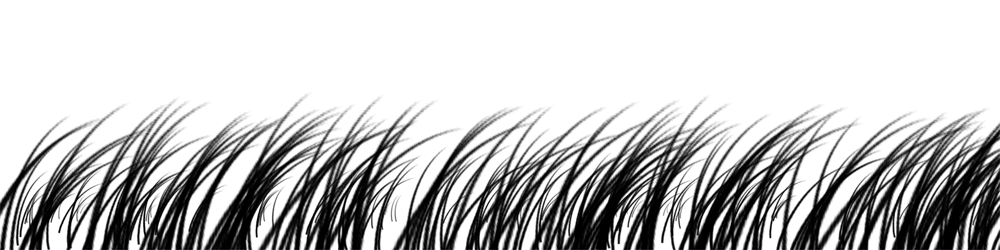
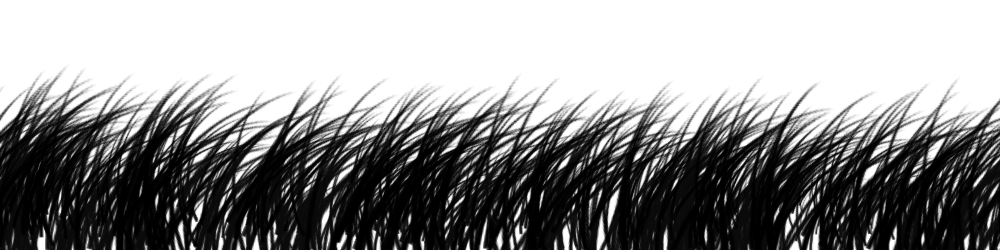
Optimized ETE.cs speed

diff --git a/DisplayedObject/Fonds/Ete/Ete.cs b/DisplayedObject/Fonds/Ete/Ete.cs
@@ -1,6 +1,8 @@
 using System;
 using System.Collections.Generic;
 using System.Drawing;
+using System.Drawing.Drawing2D;
+using System.Text;
 using System.Windows.Forms;
 namespace ClockScreenSaverGL.Fonds.Ete
 {
@@ -8,15 +10,16 @@ namespace ClockScreenSaverGL.Fonds.Ete
     {
         #region PARAMETRES
         const string CAT = "Ete";
-        static private readonly int NB_HERBES = conf.getParametre(CAT, "Nb Herbes", 80 );
-        private readonly int NB_FLARES = conf.getParametre(CAT, "Nb Flares", 6 ) ;
-        private readonly float VX_SOLEIL = conf.getParametre(CAT, "VX Soleil", 5f) ;
-        private readonly float VY_SOLEIL = -conf.getParametre(CAT, "VY Soleil", 5f) ;
-        
-        private readonly int TAILLE_SOLEIL = conf.getParametre(CAT, "Taille Soleil", 300 );
-        private readonly float RATIO_FLARE_MIN = conf.getParametre(CAT, "Ratio Flare Min", 0.5f );
+        static private readonly int NB_HERBES = conf.getParametre(CAT, "Nb Herbes", 80);
+        private readonly int NB_FLARES = conf.getParametre(CAT, "Nb Flares", 6);
+        private readonly float VX_SOLEIL = conf.getParametre(CAT, "VX Soleil", 5f);
+        private readonly float VY_SOLEIL = conf.getParametre(CAT, "VY Soleil", 5f);
+
+        private readonly int TAILLE_SOLEIL = conf.getParametre(CAT, "Taille Soleil", 300);
+        private readonly float RATIO_FLARE_MIN = conf.getParametre(CAT, "Ratio Flare Min", 0.5f);
         private readonly float RATIO_FLARE_MAX = conf.getParametre(CAT, "Ratio Flare Max", 0.9f);
-        private readonly byte ALPHA_FLARE_MIN = (byte) conf.getParametre(CAT, "Alpha Flare Min", 3);
+        private readonly byte ALPHA = (byte)conf.getParametre(CAT, "Alpha", 64);
+        private readonly byte ALPHA_FLARE_MIN = (byte)conf.getParametre(CAT, "Alpha Flare Min", 3);
         private readonly byte ALPHA_FLARE_MAX = (byte)conf.getParametre(CAT, "Alpha Flare Max", 16);
         private readonly int HAUTEUR_TOUFFE = conf.getParametre(CAT, "Hauteur touffe", 200);
         private bool AFFICHE_FOND = conf.getParametre(CAT, "Affiche Fond", true);
@@ -28,16 +31,18 @@ namespace ClockScreenSaverGL.Fonds.Ete
         private readonly int HAUTEUR;
         private readonly int CENTREX;
         private readonly int CENTREY;
-        private float _vent = 0;
-        //private Bitmap _fond = Resources.ete;
-
-        private Bitmap _soleil = Resources.soleil;
-        List<Herbe> _herbes;
         static DateTime debut = DateTime.Now;
 
+        // Soleil
+        private Bitmap _soleil = Resources.soleil;
         private float _xSoleil, _ySoleil;
+        
+        // Herbes
+        private float _vent = 0;
         private Bitmap _fond = Resources.fondEte;
-
+        private List<Herbe> _herbes;
+                
+        // Lens Flares (reflets du soleil sur l'objectif
         private class Flare
         {
             public float _distance;
@@ -55,19 +60,21 @@ namespace ClockScreenSaverGL.Fonds.Ete
         {
             LARGEUR = LargeurEcran;
             HAUTEUR = HauteurEcran;
-            LARGEUR_TOUFFE = LARGEUR ;
+            LARGEUR_TOUFFE = LARGEUR /2 ;
             CENTREX = LARGEUR / 2;
             CENTREY = HAUTEUR / 2;
             NB_FLARES = r.Next(NB_FLARES - 2, NB_FLARES + 2);
             Init();
         }
 
-
+        /**
+         * Initialisation du soleil, des lens flares et de l'herbe
+         * */
         void Init()
-        {          
+        {
             _xSoleil = 0;
-            _ySoleil = CENTREY;
-           
+            _ySoleil = CENTREY/2;
+
             _flares = new Flare[NB_FLARES];
 
             for (int i = 0; i < NB_FLARES; i++)
@@ -84,6 +91,10 @@ namespace ClockScreenSaverGL.Fonds.Ete
 
             GenereBrinsHerbe();
         }
+
+        /***
+         * Choisit un lens flare au hasard
+         */
         private Bitmap RandomFlare()
         {
             switch (r.Next(0, 4))
@@ -95,32 +106,47 @@ namespace ClockScreenSaverGL.Fonds.Ete
             }
         }
 
+        /// <summary>
+        /// Genere les brins d'herbe
+        /// </summary>
         private void GenereBrinsHerbe()
         {
             _herbes = new List<Herbe>();
 
             int touffe = r.Next(0, LARGEUR - LARGEUR_TOUFFE);
             for (int i = 0; i < NB_HERBES; i++)
-                _herbes.Add(new Herbe(r.Next(touffe, touffe + LARGEUR_TOUFFE), HAUTEUR, r.Next(HAUTEUR_TOUFFE / 2, HAUTEUR_TOUFFE*3/2), FloatRandom(0.7f, 1.1f)));
+                _herbes.Add(new Herbe(  r.Next(touffe, touffe + LARGEUR_TOUFFE), 
+                                        HAUTEUR, 
+                                        r.Next(HAUTEUR_TOUFFE / 2, HAUTEUR_TOUFFE * 4 / 3), 
+                                        FloatRandom(0.2f, 5.0f)));
 
         }
 
-        /**
-         * Affichage
-         */
+        /// <summary>
+        /// Affichage
+        /// </summary>
+        /// <param name="g"></param>
+        /// <param name="maintenant"></param>
+        /// <param name="tailleEcran"></param>
+        /// <param name="couleur"></param>
         public override void AfficheGDI(Graphics g, Temps maintenant, Rectangle tailleEcran, Color couleur)
         {
 #if TRACER
             RenderStart(CHRONO_TYPE.RENDER);
 #endif
-            g.Clear(getCouleurOpaqueAvecAlpha(couleur, 64));
+            g.Clear(getCouleurOpaqueAvecAlpha(couleur, ALPHA));
 
-            if ( AFFICHE_FOND)
-                g.DrawImage(_fond, 0, HAUTEUR - HAUTEUR_TOUFFE*3, LARGEUR, HAUTEUR_TOUFFE*3);
+            SmoothingMode s = g.SmoothingMode;
+            g.SmoothingMode = System.Drawing.Drawing2D.SmoothingMode.HighSpeed;
+
+            CompositingQuality q = g.CompositingQuality;
+            g.CompositingQuality = CompositingQuality.HighSpeed;
+
+            if (AFFICHE_FOND)
+                g.DrawImage(_fond, 0, HAUTEUR - HAUTEUR_TOUFFE * 4, LARGEUR, HAUTEUR_TOUFFE * 4);
+
             g.DrawImage(_soleil, _xSoleil - TAILLE_SOLEIL / 2, _ySoleil - TAILLE_SOLEIL / 2, TAILLE_SOLEIL, TAILLE_SOLEIL);
 
-            //..            using ( Brush b = new SolidBrush(getCouleurOpaqueAvecAlpha( couleur, 255 )))
-            //g.FillEllipse( b, _xSoleil - TAILLE_SOLEIL/2, _ySoleil - TAILLE_SOLEIL/2, TAILLE_SOLEIL, TAILLE_SOLEIL ) ;
             foreach (Herbe h in _herbes)
                 h.Affiche(g, _vent);
 
@@ -128,12 +154,13 @@ namespace ClockScreenSaverGL.Fonds.Ete
             float dy = CENTREY - _ySoleil;
 
             foreach (Flare f in _flares)
-            {
                 DrawBitmapNuance(g, f._bmp, _xSoleil + dx * f._distance - f._taille / 2,
                                      _ySoleil + dy * f._distance - f._taille / 2,
                                      f._taille,
                                      f._taille, getCouleurAvecAlpha(couleur, f._alpha));
-            }
+            g.SmoothingMode = s;
+            g.CompositingQuality = q ;
+
 #if TRACER
             RenderStop(CHRONO_TYPE.RENDER);
 #endif
@@ -163,19 +190,23 @@ namespace ClockScreenSaverGL.Fonds.Ete
             return false;
         }
 
-
-        /**
-         * Deplacement
-         */
+        public override void AppendHelpText(StringBuilder s)
+        {
+            s.Append(Resources.AideEte);
+        }
+       
+        /// <summary>
+        /// Deplacement
+        /// </summary>
+        /// <param name="maintenant"></param>
+        /// <param name="tailleEcran"></param>
         public override void Deplace(Temps maintenant, ref Rectangle tailleEcran)
         {
 #if TRACER
             RenderStart(CHRONO_TYPE.DEPLACE);
 #endif
-            Varie(ref _vent, -300f, 300f, 0.02f, maintenant._intervalle);
-            //float depuisdebut = (float)(debut.Subtract(maintenant._temps).TotalMilliseconds / 1000.0);
-            //_vent = (float)Math.Sin(depuisdebut / 5.0f) * 0.5f;
-
+            Varie(ref _vent, -300f, 300f, 0.015f, maintenant._intervalle);
+            
             _xSoleil += VX_SOLEIL * maintenant._intervalle;
             _ySoleil += VY_SOLEIL * maintenant._intervalle;
 

diff --git a/DisplayedObject/Fonds/Ete/Herbe.cs b/DisplayedObject/Fonds/Ete/Herbe.cs
@@ -5,12 +5,12 @@ namespace ClockScreenSaverGL.Fonds.Ete
 {
     class Herbe
     {
-        const float ratioSegments = 0.75f;
-        const float largeurInitiale =10;
+        const float ratioSegments = 0.8f;
+        const float largeurInitiale =15;
         const int NbSegments = 16;
 
         readonly float  _x, _y;
-        readonly double _raideur;
+        readonly float _raideur;
         float[] _longueurSegments;
         double[] _anglesSegments;
         static Pen[] _pens;
@@ -22,6 +22,7 @@ namespace ClockScreenSaverGL.Fonds.Ete
         /// <param name="x"></param>
         /// <param name="y"></param>
         /// <param name="longueurSegment"></param>
+ 
         public Herbe( float x, float y, float longueurSegment, float raideur )
         {
             if (_pens == null)

diff --git a/Resources.Designer.cs b/Resources.Designer.cs
@@ -80,6 +80,16 @@ namespace ClockScreenSaverGL {
         }
         
         /// <summary>
+        ///   Looks up a localized string similar to I: Afficher/cacher fond herbeux
+        ///R: réinitialiser le fond.
+        /// </summary>
+        internal static string AideEte {
+            get {
+                return ResourceManager.GetString("AideEte", resourceCulture);
+            }
+        }
+        
+        /// <summary>
         ///   Looks up a localized string similar to I: couleurs inversées
         ///N: négatif
         ///R: réinitialiser le fond.

diff --git a/DisplayedObject/DisplayedObject.cs b/DisplayedObject/DisplayedObject.cs
@@ -21,7 +21,7 @@ namespace ClockScreenSaverGL
 	/// </summary>
 	public abstract class DisplayedObject
 	{
-        const float PRECISION_RANDOM = 10000.0f;
+        const float PRECISION_RANDOM = 100000.0f;
 		static public Random r = new Random() ;
 		static protected readonly Config conf = Config.getInstance() ;
 		
